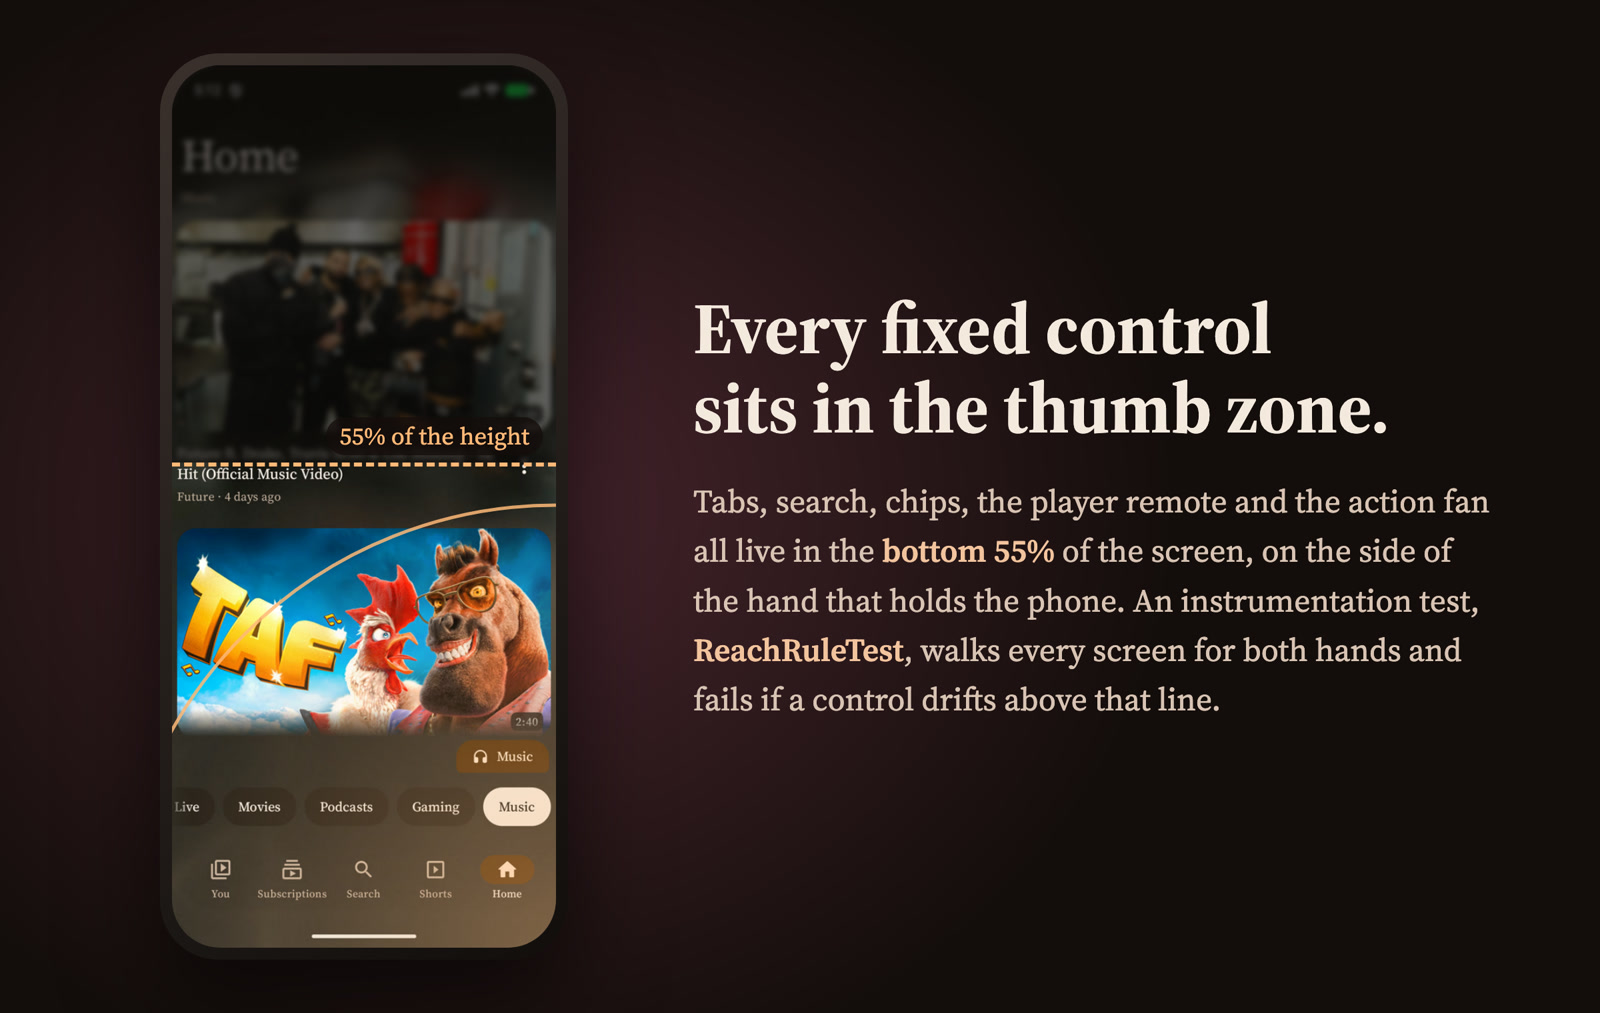
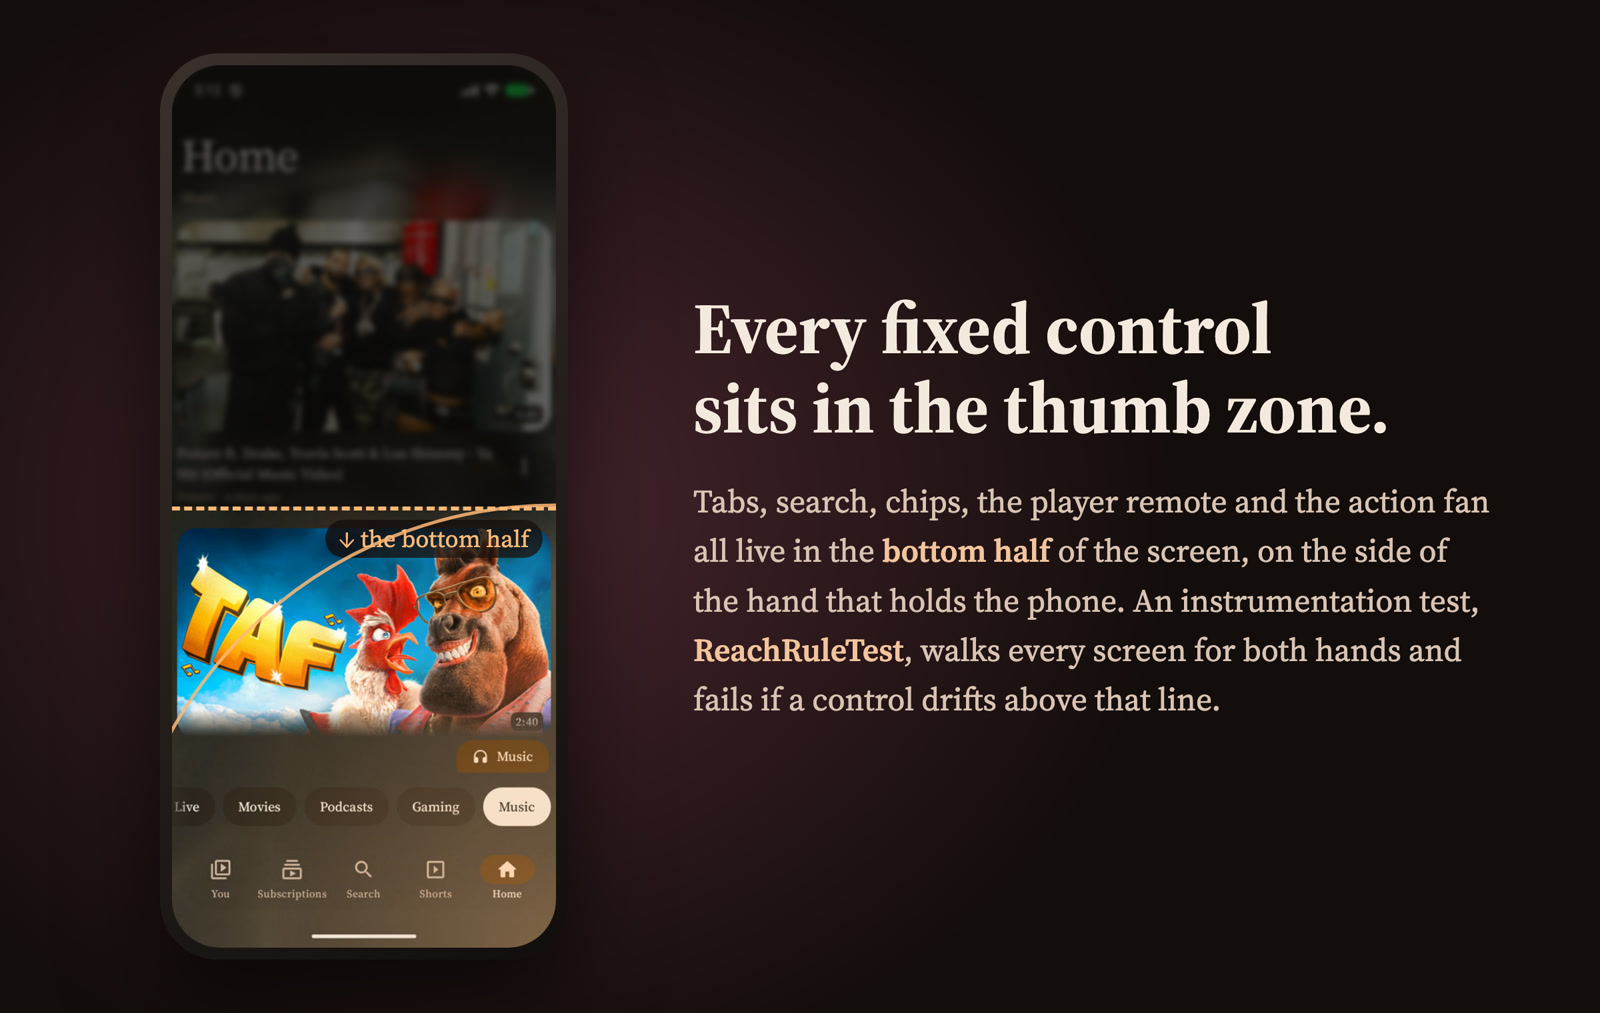
README: drop the upgrade notice, say "bottom half" instead of 55%

Changed region(s): [[0.0938, 0.3978, 0.3438, 0.5508], [0.625, 0.5202, 0.9062, 0.5814]]

diff --git a/README.ru.md b/README.ru.md
@@ -50,7 +50,7 @@
 
 **🖐 Под одну руку**
 - Нижняя панель у рабочей руки: Моё, Подписки, Поиск, Shorts, Главная. Для левой руки она зеркалится.
-- Все постоянные кнопки ниже 55% высоты экрана; это проверяет тест `ReachRuleTest` для обеих рук.
+- Все постоянные кнопки в нижней половине экрана; это проверяет тест `ReachRuleTest` для обеих рук.
 - На экранах нет кнопок «Назад»: хватает системного жеста и нижней панели.
 - Поиск, фильтры и полоска каналов у нижнего края, ленты можно читать снизу вверх.
 - По желанию классический вид, где кнопки стоят как в YouTube.
@@ -101,9 +101,6 @@
 3. Нужен Android 8.0 или новее. Google Play Services не нужны.
 
 О новой версии приложение скажет само.
-
-> [!IMPORTANT]
-> **Если у тебя стояла старая ErgoTube.** Начиная со сборки 35 приложение называется `app.ergotube` и подписано своим ключом. Android ставит его рядом со старым `app.freshtuber`, а не поверх. Войди заново, а старое приложение удали вручную. Дальше все сборки будут обновляться как обычно.
 
 > [!WARNING]
 > **Про аккаунт.** Вход через любой неофициальный клиент нарушает условия YouTube. Google может показывать капчи, на время ограничить доступ или заблокировать аккаунт. Риск небольшой, но он есть, поэтому **входи запасным аккаунтом, а не основным**, или пользуйся без входа.

diff --git a/README.md b/README.md
@@ -57,7 +57,7 @@ Everything that appears or hides comes into focus out of a blur. Nothing slides 
 </tr>
 </table>
 
-<img src="docs/media/reach.jpg" alt="Every fixed control sits in the bottom 55% of the screen" width="100%">
+<img src="docs/media/reach.jpg" alt="Every fixed control sits in the bottom half of the screen" width="100%">
 
 <p align="center"><img src="docs/media/fullscreen.jpg" alt="Fullscreen with the corner fan and the arc timeline" width="90%"><br><sub><b>Fullscreen</b>: the controls gather in a fan in the corner, and the timeline is an arc you sweep with your thumb</sub></p>
 
@@ -69,7 +69,7 @@ Everything that appears or hides comes into focus out of a blur. Nothing slides 
 
 **🖐 Made for one hand**
 - Hand-side dock: You, Subscriptions, Search, Shorts, Home. Mirror it for the left hand.
-- Every fixed control below 55% of the height, checked by `ReachRuleTest` for both hands.
+- Every fixed control in the bottom half of the screen, checked by `ReachRuleTest` for both hands.
 - No on-screen Back buttons: the system gesture and the dock are enough.
 - Search, chips and channel strips at the bottom edge; lists can read bottom-up.
 - Optional classic layout that places buttons the way YouTube does.
@@ -129,9 +129,6 @@ There are excellent open YouTube clients. ErgoTube is not trying to replace them
 3. Android 8.0 (API 26) or newer is required. No Google Play Services needed.
 
 The app tells you itself when a newer release appears here.
-
-> [!IMPORTANT]
-> **Coming from an older ErgoTube?** Since build 35 the app is `app.ergotube` and signed with its own key. Android installs it next to the old `app.freshtuber` instead of over it. Sign in again, then uninstall the old one by hand. Every later build updates in place.
 
 > [!WARNING]
 > **About your account.** Signing in through any unofficial client breaks YouTube's Terms of Service. Google may show captchas, limit access for a while or suspend the account. The risk is small but real, so **use a spare account, not your main one**, or use ErgoTube without signing in.

diff --git a/CONTRIBUTING.md b/CONTRIBUTING.md
@@ -4,7 +4,7 @@ Thanks for wanting to help. ErgoTube is a small project with one strong opinion,
 
 ## The one rule
 
-**Everything you tap often sits under the thumb of the hand that holds the phone.** Fixed controls live in the bottom 55% of the screen, on the hand's side, and mirror for the left hand. `ReachRuleTest` walks every screen for both hands and fails if a control drifts above the line. A feature that needs a button at the top of the screen needs a very good reason.
+**Everything you tap often sits under the thumb of the hand that holds the phone.** Fixed controls live in the bottom half of the screen, on the hand's side, and mirror for the left hand. `ReachRuleTest` walks every screen for both hands and fails if a control drifts above the line. A feature that needs a button at the top of the screen needs a very good reason.
 
 The product principles are in [`PRODUCT.md`](PRODUCT.md), and the history of every decision in [`docs/DECISIONS.md`](docs/DECISIONS.md). Read the relevant part before changing behaviour that was decided on purpose.
 

diff --git a/.github/PULL_REQUEST_TEMPLATE.md b/.github/PULL_REQUEST_TEMPLATE.md
@@ -9,7 +9,7 @@
 ## Checked
 
 - [ ] `./gradlew testDebugUnitTest lintDebug assembleDebug` passes
-- [ ] Every new fixed control sits in the bottom 55% of the screen, for both hands
+- [ ] Every new fixed control sits in the bottom half of the screen, for both hands
 - [ ] New UI strings are in `res/values` and `res/values-ru`
 - [ ] Looked at it on a phone or emulator (say which), or explained why not
 
